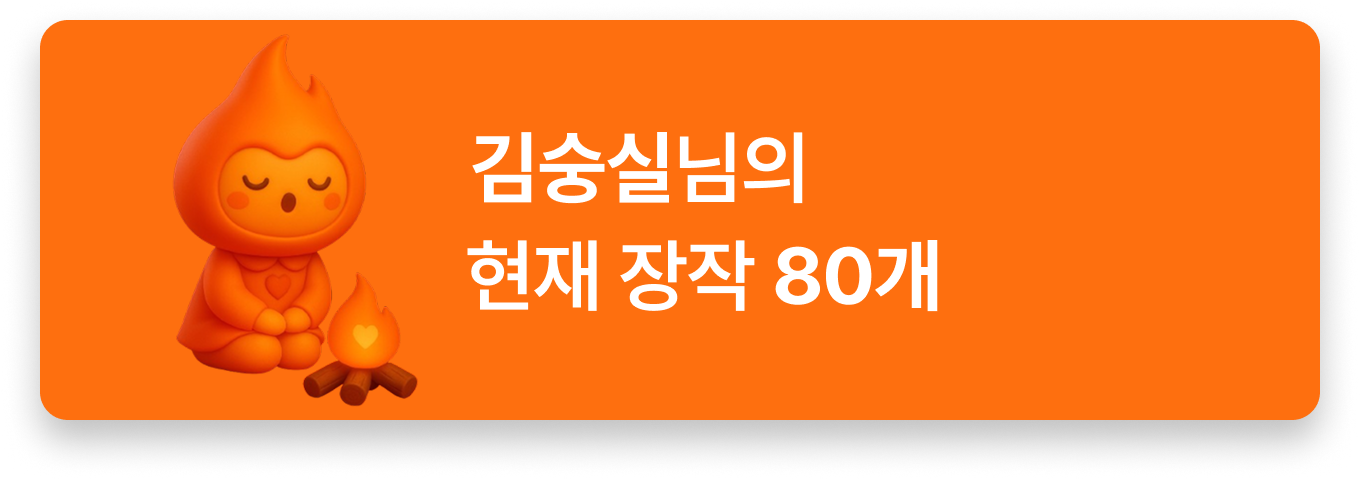
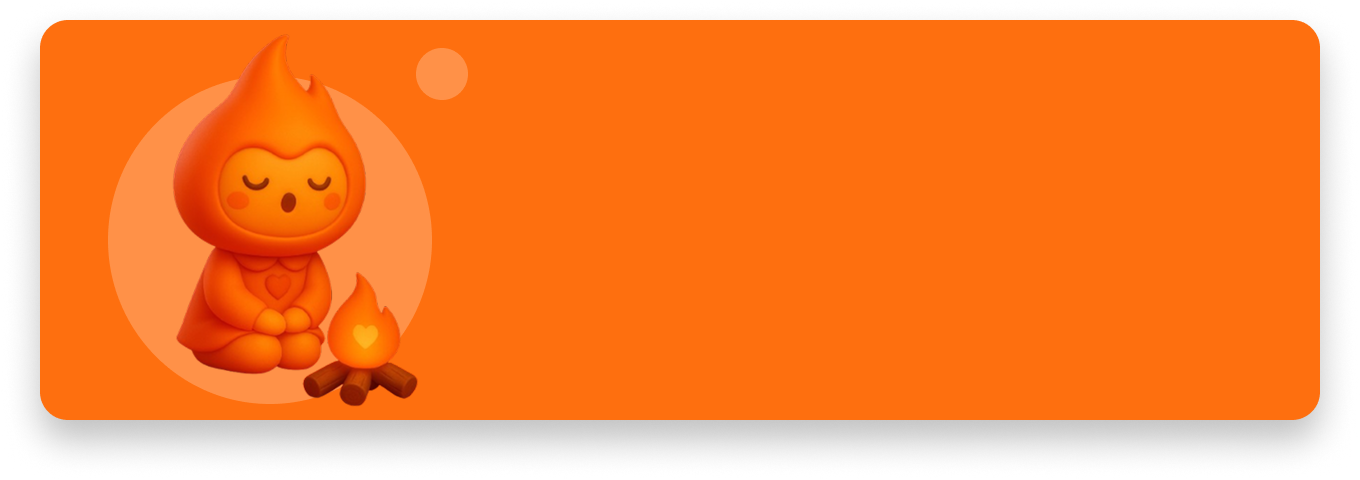
api 연동 & 상점 ui

Changed region(s): [[0.0618, 0.1562, 0.7103, 0.8438], [0.3088, 0.0938, 0.3706, 0.2188]]

diff --git a/app/(tabs)/screen/store.tsx b/app/(tabs)/screen/store.tsx
@@ -1,16 +1,17 @@
-import React from "react";
+import React, { useState, useEffect } from "react";
 import {
   View,
   Text,
   StyleSheet,
   FlatList,
   TouchableOpacity,
+  ScrollView,
 } from "react-native";
-import {
-  SafeAreaView,
-} from "react-native-safe-area-context";
-import { StoreHeader, Tree } from "@/assets";
+import { SafeAreaView } from "react-native-safe-area-context";
+import { StoreHeader, Tree, StorePre } from "@/assets";
 import { colors, typography } from "@/constants";
+
+import { API_BASE_URL } from "@env";
 
 const data = [
   { id: "1", count: 10, price: "5,000원" },
@@ -21,6 +22,34 @@ const data = [
 ];
 
 export default function StoreScreen() {
+  const [meName, setMeName] = useState<string>("");
+  const [mePoint, setMePoint] = useState<number>(0);
+  const [meLoading, setMeLoading] = useState<boolean>(true);
+  const [meError, setMeError] = useState<boolean>(false);
+
+  useEffect(() => {
+    const fetchMe = async () => {
+      setMeLoading(true);
+      setMeError(false);
+      try {
+        const res = await fetch(`${API_BASE_URL}/users/me`, {
+          headers: {
+            "X-User-Id": "22",
+          },
+        });
+        if (!res.ok) throw new Error("Failed to fetch");
+        const data = await res.json();
+        setMeName(data?.name || "");
+        setMePoint(data?.point ?? 0);
+      } catch (e) {
+        setMeError(true);
+      } finally {
+        setMeLoading(false);
+      }
+    };
+    fetchMe();
+  }, []);
+
   const renderItem = ({ item }) => (
     <View style={styles.itemContainer}>
       <Tree />
@@ -33,15 +62,47 @@ export default function StoreScreen() {
 
   return (
     <SafeAreaView style={[styles.safe, { paddingTop: 0 }]}>
-      <View style={styles.headerWrap}>
+      <View style={{ position: "relative" }}>
         <StoreHeader style={{ width: "100%", height: 140 }} />
+        <View
+          style={{
+            position: "absolute",
+            left: 140,
+            bottom: 40,
+          }}
+        >
+          <View style={{ flexDirection: "row", alignItems: "center" }}>
+            <Text style={styles.nameText}>{meName || "회원"}</Text>
+          </View>
+          <Text style={styles.infoText}>
+            {meLoading
+              ? "포인트 불러오는 중…"
+              : meError
+              ? "포인트를 불러오지 못했습니다"
+              : `포인트 ${mePoint.toLocaleString()}P`}
+          </Text>
+        </View>
       </View>
-      <FlatList
-        data={data}
-        keyExtractor={(item) => item.id}
-        renderItem={renderItem}
-        contentContainerStyle={styles.listContent}
-      />
+      <ScrollView contentContainerStyle={{ flexGrow: 1 }}>
+        <View style={styles.headerWrap}>
+          <View style={styles.headerBar} />
+          <Text style={styles.headerTitle}>멤버쉽</Text>
+        </View>
+        <StorePre />
+        <View style={styles.headerWrap}>
+          <View style={styles.headerBar} />
+          <Text style={styles.headerTitle}>개별 구매</Text>
+        </View>
+        {data.map((item) => (
+          <View key={item.id} style={styles.itemContainer}>
+            <Tree />
+            <Text style={styles.itemText}>장작 {item.count}개</Text>
+            <TouchableOpacity style={styles.itemButton}>
+              <Text style={styles.itemButtonText}>{item.price}</Text>
+            </TouchableOpacity>
+          </View>
+        ))}
+      </ScrollView>
     </SafeAreaView>
   );
 }
@@ -53,9 +114,25 @@ const styles = StyleSheet.create({
     justifyContent: "flex-start",
   },
   headerWrap: {
-    paddingHorizontal: 10,
-    marginTop: 0,
-    marginBottom: 6,
+    flexDirection: "row",
+    alignItems: "center",
+    paddingHorizontal: 20,
+    paddingTop: 13,
+    paddingBottom: 13,
+    backgroundColor: colors.white,
+    elevation: 2,
+    zIndex: 1,
+  },
+  headerBar: {
+    width: 8,
+    height: 20,
+    borderRadius: 4,
+    backgroundColor: colors.primary,
+    marginRight: 8,
+  },
+  headerTitle: {
+    ...typography.h2,
+    color: colors.textblack,
   },
   listContent: {
     paddingBottom: 16,
@@ -87,5 +164,15 @@ const styles = StyleSheet.create({
   itemButtonText: {
     color: colors.white,
     ...typography.subB,
+  },
+  nameText: {
+    ...typography.h1,
+    color: colors.white,
+    fontWeight: "700",
+  },
+  infoText: {
+    ...typography.h3,
+    color: colors.white,
+    marginTop: 4,
   },
 });

diff --git a/app/(tabs)/reels.tsx b/app/(tabs)/reels.tsx
@@ -34,7 +34,7 @@ export default function Reels() {
   const sheetHRef = useRef(0);
   const [sheetReady, setSheetReady] = useState(false);
 
-  const COST_FOR_CHAT = 10; // 1명 추가당 장작 소모
+  const COST_FOR_CHAT = 10; // 1명 연락당 장작 소모
   const [woodBalance, setWoodBalance] = useState(40); // 잔여 장작
 
   const confirmPurchase = async () => {
@@ -92,6 +92,65 @@ export default function Reels() {
         useNativeDriver: true,
       }),
     ]).start(() => setSheetOpen(false));
+  };
+
+  // Upload test video function
+  const uploadTestVideo = async () => {
+    try {
+      const result = await DocumentPicker.getDocumentAsync({
+        type: "video/*",
+      });
+      console.log("Picked file:", result);
+      if (result.canceled) return;
+      const formData = new FormData();
+      formData.append("video", {
+        uri: result.assets[0].uri,
+        name: result.assets[0].name || "test.mp4",
+        type: result.assets[0].mimeType || "video/mp4",
+      } as any);
+      formData.append("latitude", "37.5665");
+      formData.append("longitude", "126.9780");
+      console.log("Uploading to:", `${API_BASE_URL}/users/onboarding`);
+      const res = await fetch(`${API_BASE_URL}/users/onboarding`, {
+        method: "POST",
+        headers: {
+          "Content-Type": "multipart/form-data",
+          Accept: "application/json",
+        },
+        body: formData,
+      });
+      console.log("Response status:", res.status);
+      // Log headers as object for readability
+      if (res.headers && typeof res.headers.forEach === "function") {
+        const headersObj: Record<string, string> = {};
+        res.headers.forEach((value, key) => {
+          headersObj[key] = value;
+        });
+        console.log("Response headers:", headersObj);
+      }
+      const data = await res.json();
+      console.log("Returned task_id:", data);
+    } catch (err) {
+      console.error("Upload error:", err);
+    }
+  };
+
+  const getUserMeTest = async () => {
+    try {
+      const url = `${API_BASE_URL}/users/me`;
+      console.log("Fetching user me:", url);
+      const res = await fetch(url, {
+        method: "GET",
+        headers: {
+          Accept: "application/json",
+        },
+      });
+      console.log("UserMe Response status:", res.status);
+      const data = await res.json();
+      console.log("UserMe JSON body:", data);
+    } catch (err) {
+      console.error("UserMe fetch error:", err);
+    }
   };
 
   return (

diff --git a/app/(tabs)/screen/home.tsx b/app/(tabs)/screen/home.tsx
@@ -276,7 +276,7 @@ export default function HomeScreen() {
         headers: {
           Accept: "application/json",
           "Content-Type": "application/json",
-          "X-User-Id": "22", // TODO: 실제 인증으로 교체
+          "X-User-Id": "31", // TODO: 실제 인증으로 교체
         },
         body: JSON.stringify({ count: String(n) }), // 스펙상 문자열
       });
@@ -470,8 +470,7 @@ export default function HomeScreen() {
           method: "GET",
           headers: {
             Accept: "application/json",
-            // TODO: replace this test header with real auth header when ready
-            "X-User-Id": "22",
+            "X-User-Id": "31",
           },
         });
         console.log("[users/me] Status:", res.status);

diff --git a/assets/index.tsx b/assets/index.tsx
@@ -148,6 +148,17 @@ export function StoreHeader(props: Omit<ImageProps, "source">) {
   );
 }
 
+export function StorePre(props: Omit<ImageProps, "source">) {
+  return (
+    <Image
+      source={require("@/assets/store/store_p.png")}
+      resizeMode="contain"
+      {...props}
+      style={{ width: 360, height: 336 }}
+    />
+  );
+}
+
 export function Tree() {
   return (
     <Image
@@ -162,7 +173,7 @@ export function GroupCharacter() {
   return (
     <Image
       source={require("@/assets/groupCharacter.png")}
-      style={{ width: 74, height:65}}
+      style={{ width: 74, height: 65 }}
       resizeMode="contain"
     />
   );

diff --git a/app/(tabs)/screen/mypage.tsx b/app/(tabs)/screen/mypage.tsx
@@ -88,7 +88,7 @@ export default function MypageScreen() {
           headers: {
             Accept: "application/json",
             // TODO: replace this test header with real auth header when ready
-            "X-User-Id": "26",
+            "X-User-Id": "31",
           },
         });
         console.log("[mypage users/me] Status:", res.status);

diff --git a/app/(tabs)/screen/chat/index.tsx b/app/(tabs)/screen/chat/index.tsx
@@ -110,7 +110,7 @@ export default function ChatScreen() {
           headers: {
             Accept: "application/json",
             // TODO: replace this test header with real auth header when ready
-            "X-User-Id": "22",
+            "X-User-Id": "31",
           },
         });
         console.log("[recs] Status:", res.status);
